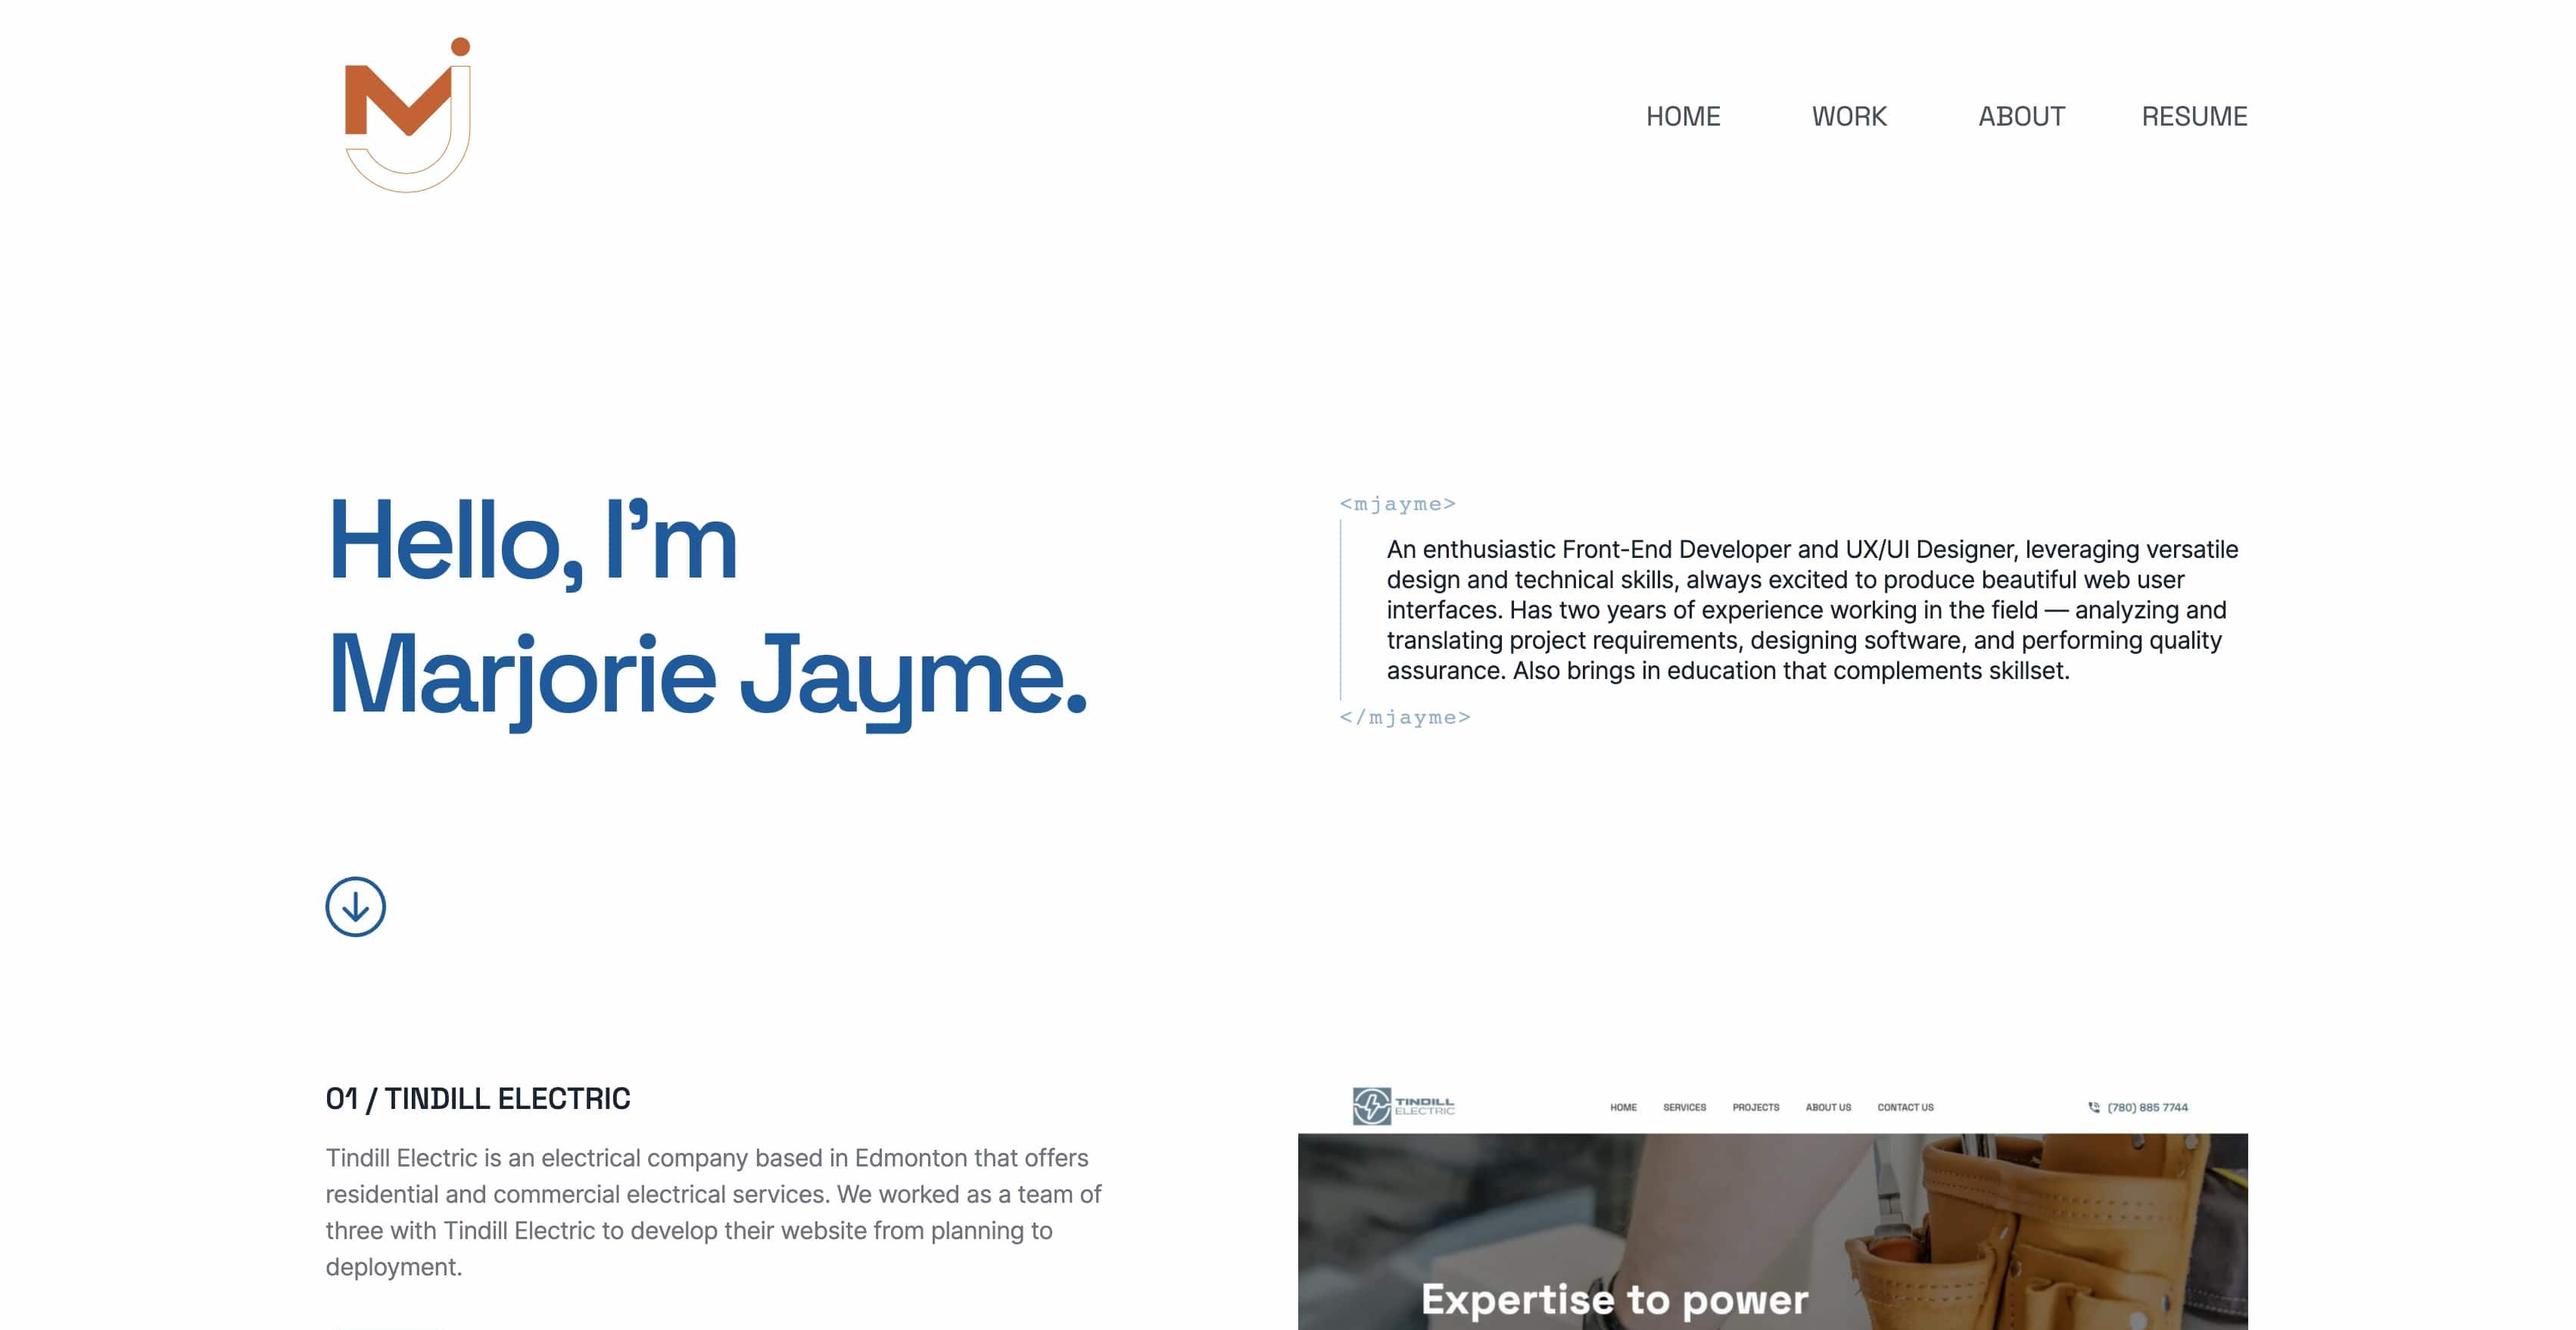
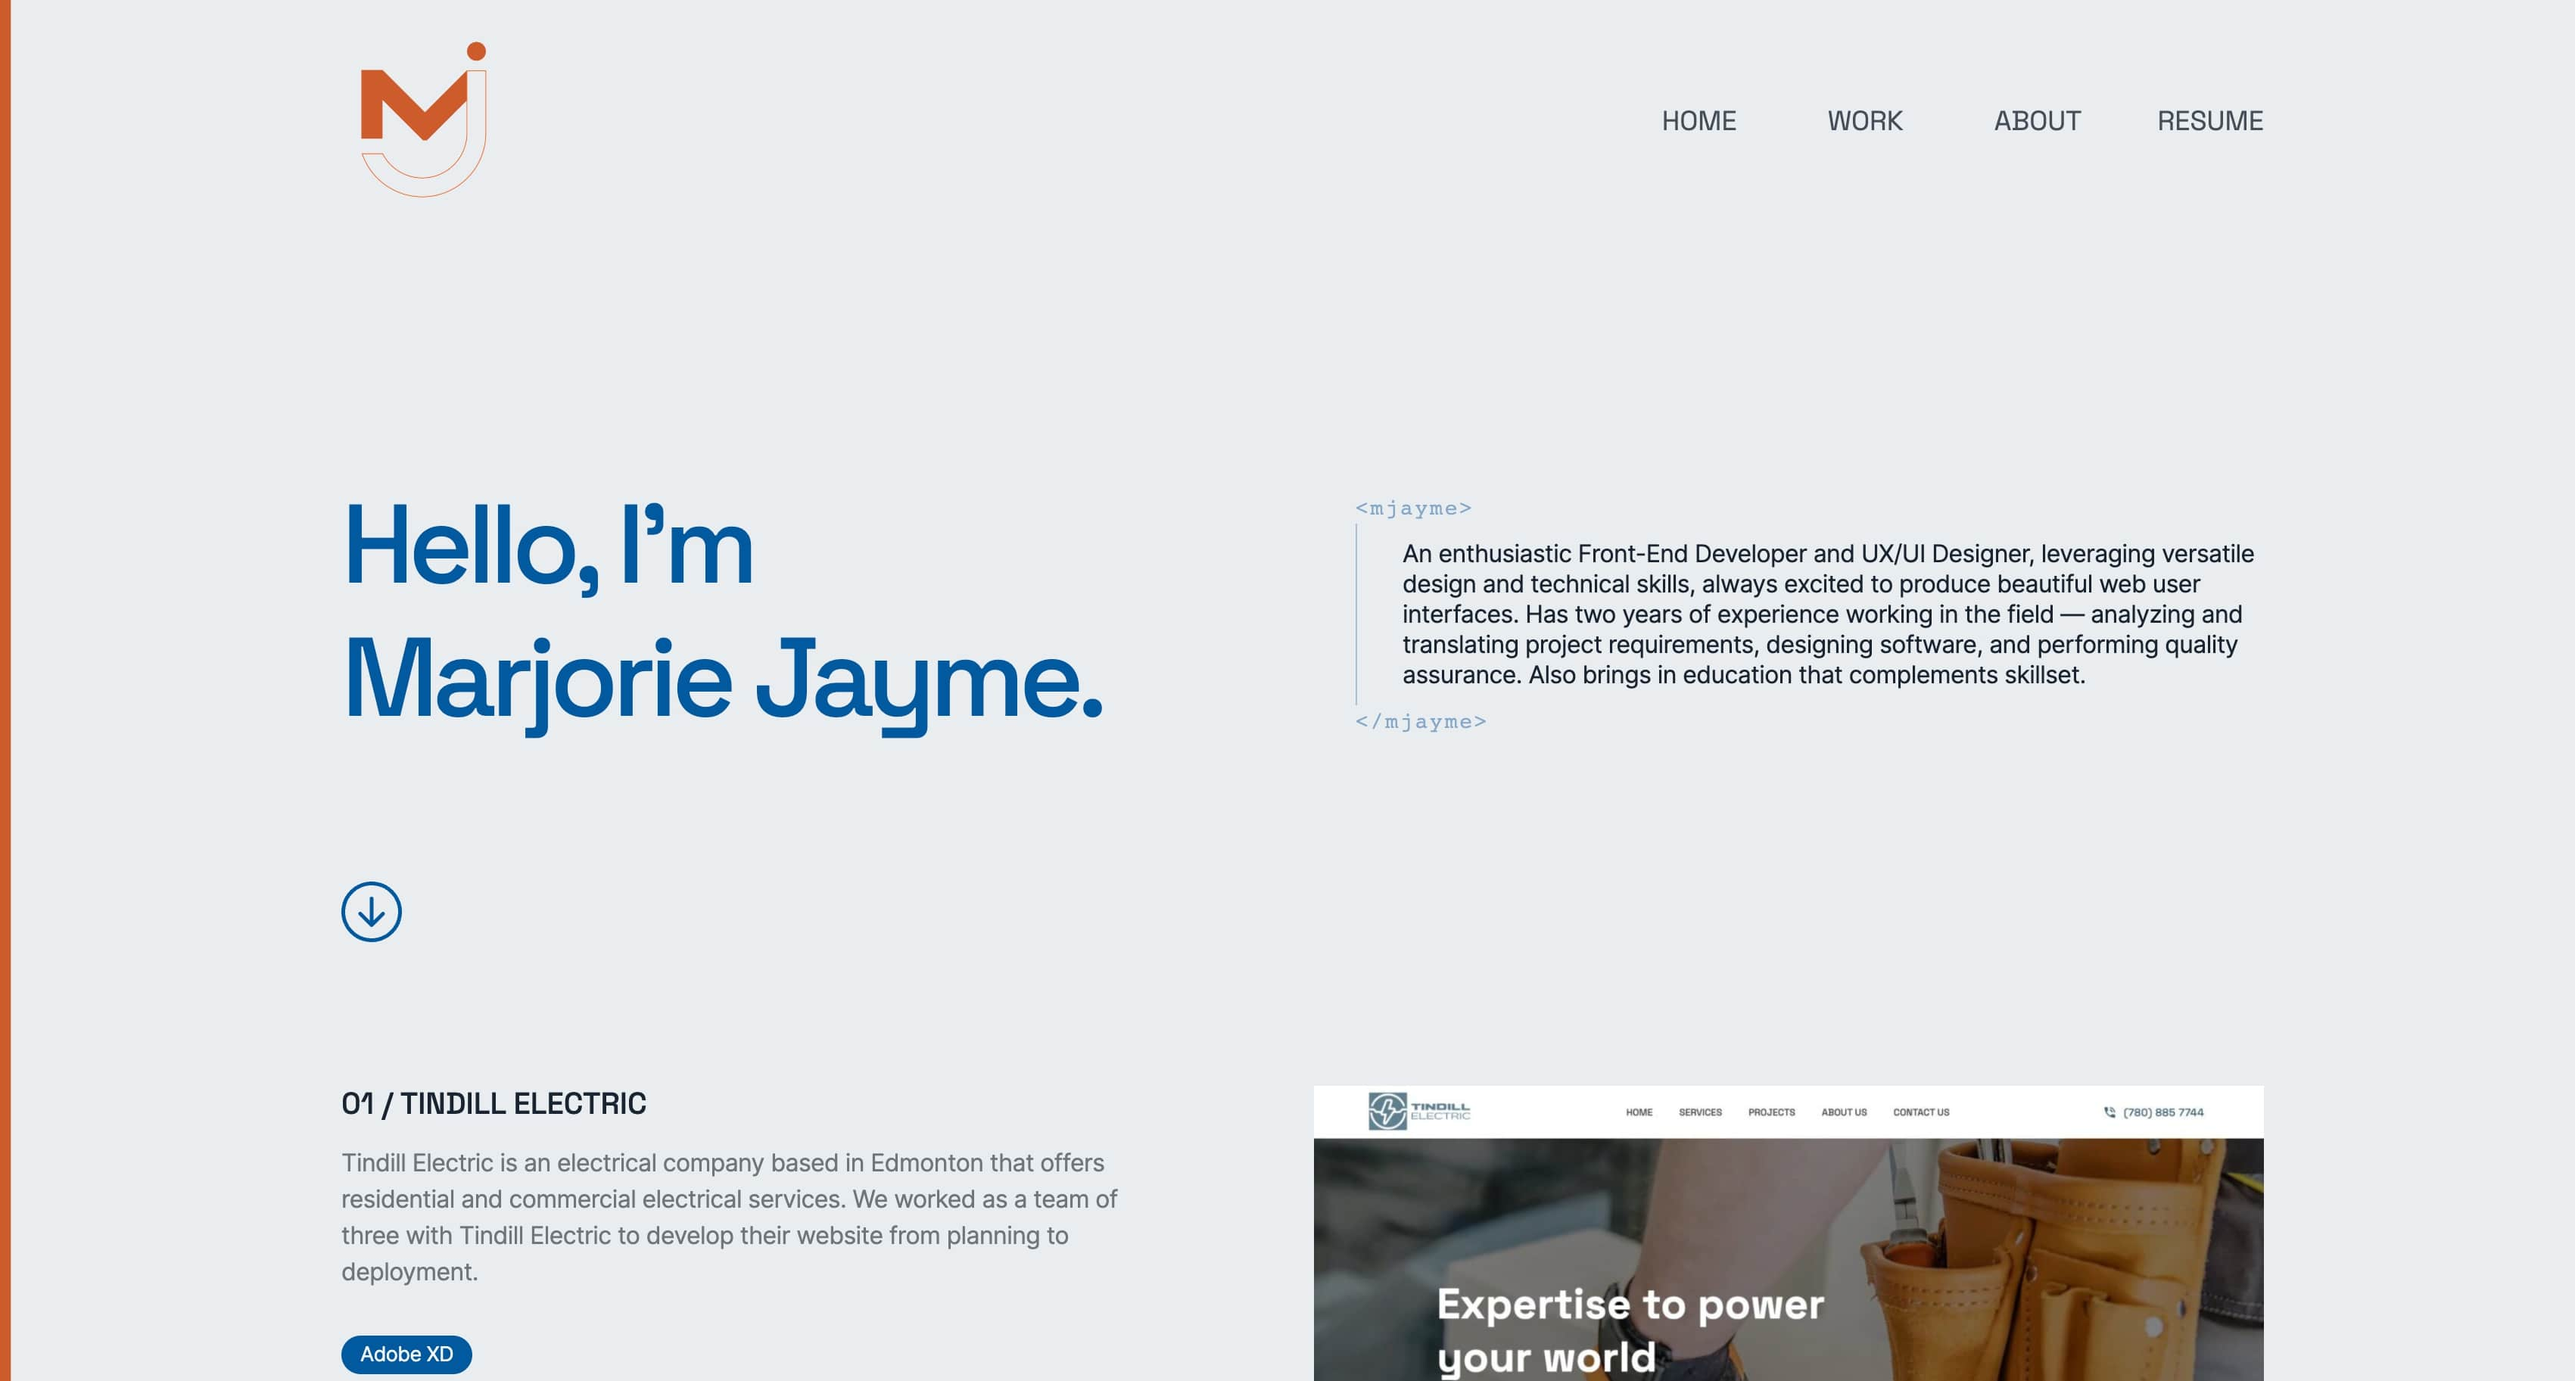
Add portfolio to projects

diff --git a/src/pages/ProjectDetail.js b/src/pages/ProjectDetail.js
@@ -167,27 +167,30 @@ export default function ProjectDetail() {
                                     <p className="pb-lg-3">
                                         {descriptionParagraphs}
                                     </p>
-                                    <Link
+                                    {project.url && (
+                                        <Link
                                         to={project.url}
                                         target="_blank"
                                         className="single-project_url d-inline-block border-bottom border-1 border-dark mt-4 mt-lg-auto"
-                                    >
-                                        <span className="d-flex align-items-center gap-2">
-                                            <span>{project.calltoaction}</span>
-                                            <img
-                                                src="/assets/right-up-arrow.svg"
-                                                alt="Up Arrow"
-                                                style={{ width: "20px" }}
-                                            />
-                                        </span>
-                                    </Link>
+                                        >
+                                            <span className="d-flex align-items-center gap-2">
+                                                <span>{project.calltoaction}</span>
+                                                <img
+                                                    src="/assets/right-up-arrow.svg"
+                                                    alt="Up Arrow"
+                                                    style={{ width: "20px" }}
+                                                />
+                                            </span>
+                                        </Link>
+                                        )
+                                    }
                                 </Col>
                             </Row>
                             <div>
                                 <h3 className="visually-hidden">
                                     Project Images
                                 </h3>
-                                {project.id === 6 ? (
+                                {project.id === 7 ? (
                                     <div className="single-project_lightbox grid">
                                         {project.images
                                             .slice(1)
@@ -210,7 +213,7 @@ export default function ProjectDetail() {
                                             .map((image, index) => (
                                                 <img
                                                     key={index}
-                                                    className="w-full rounded mb-4"
+                                                    className="w-full rounded mb-4 shadow-sm"
                                                     src={image.src}
                                                     alt={image.alt}
                                                 />

diff --git a/src/components/ProjectCard.js b/src/components/ProjectCard.js
@@ -11,7 +11,7 @@ export default function ProjectCard({ project }) {
             <Row className="justify-content-between">
                 <Col xs={12} lg={6} className="project_col__imagefeatured">
                     <Link to={`/work/${project.slug}`}>
-                        <div className="project__imagefeatured">
+                        <div className="project__imagefeatured shadow-sm">
                             <div className="d-block">
                                 <img
                                     src={project.imagefeatured}

diff --git a/src/sass/components/_projects.scss b/src/sass/components/_projects.scss
@@ -56,7 +56,7 @@
         }
     }
 
-    &:nth-child(2) .project__imagefeatured img {
+    &:nth-child(3) .project__imagefeatured img {
         @include respond(larger) {
             transition: all 600ms ease-in-out;
 
@@ -66,7 +66,7 @@
         }
     }
 
-    &:nth-child(6) img:hover {
+    &:nth-child(7) img:hover {
         transform: translateY(0);
     }
 
